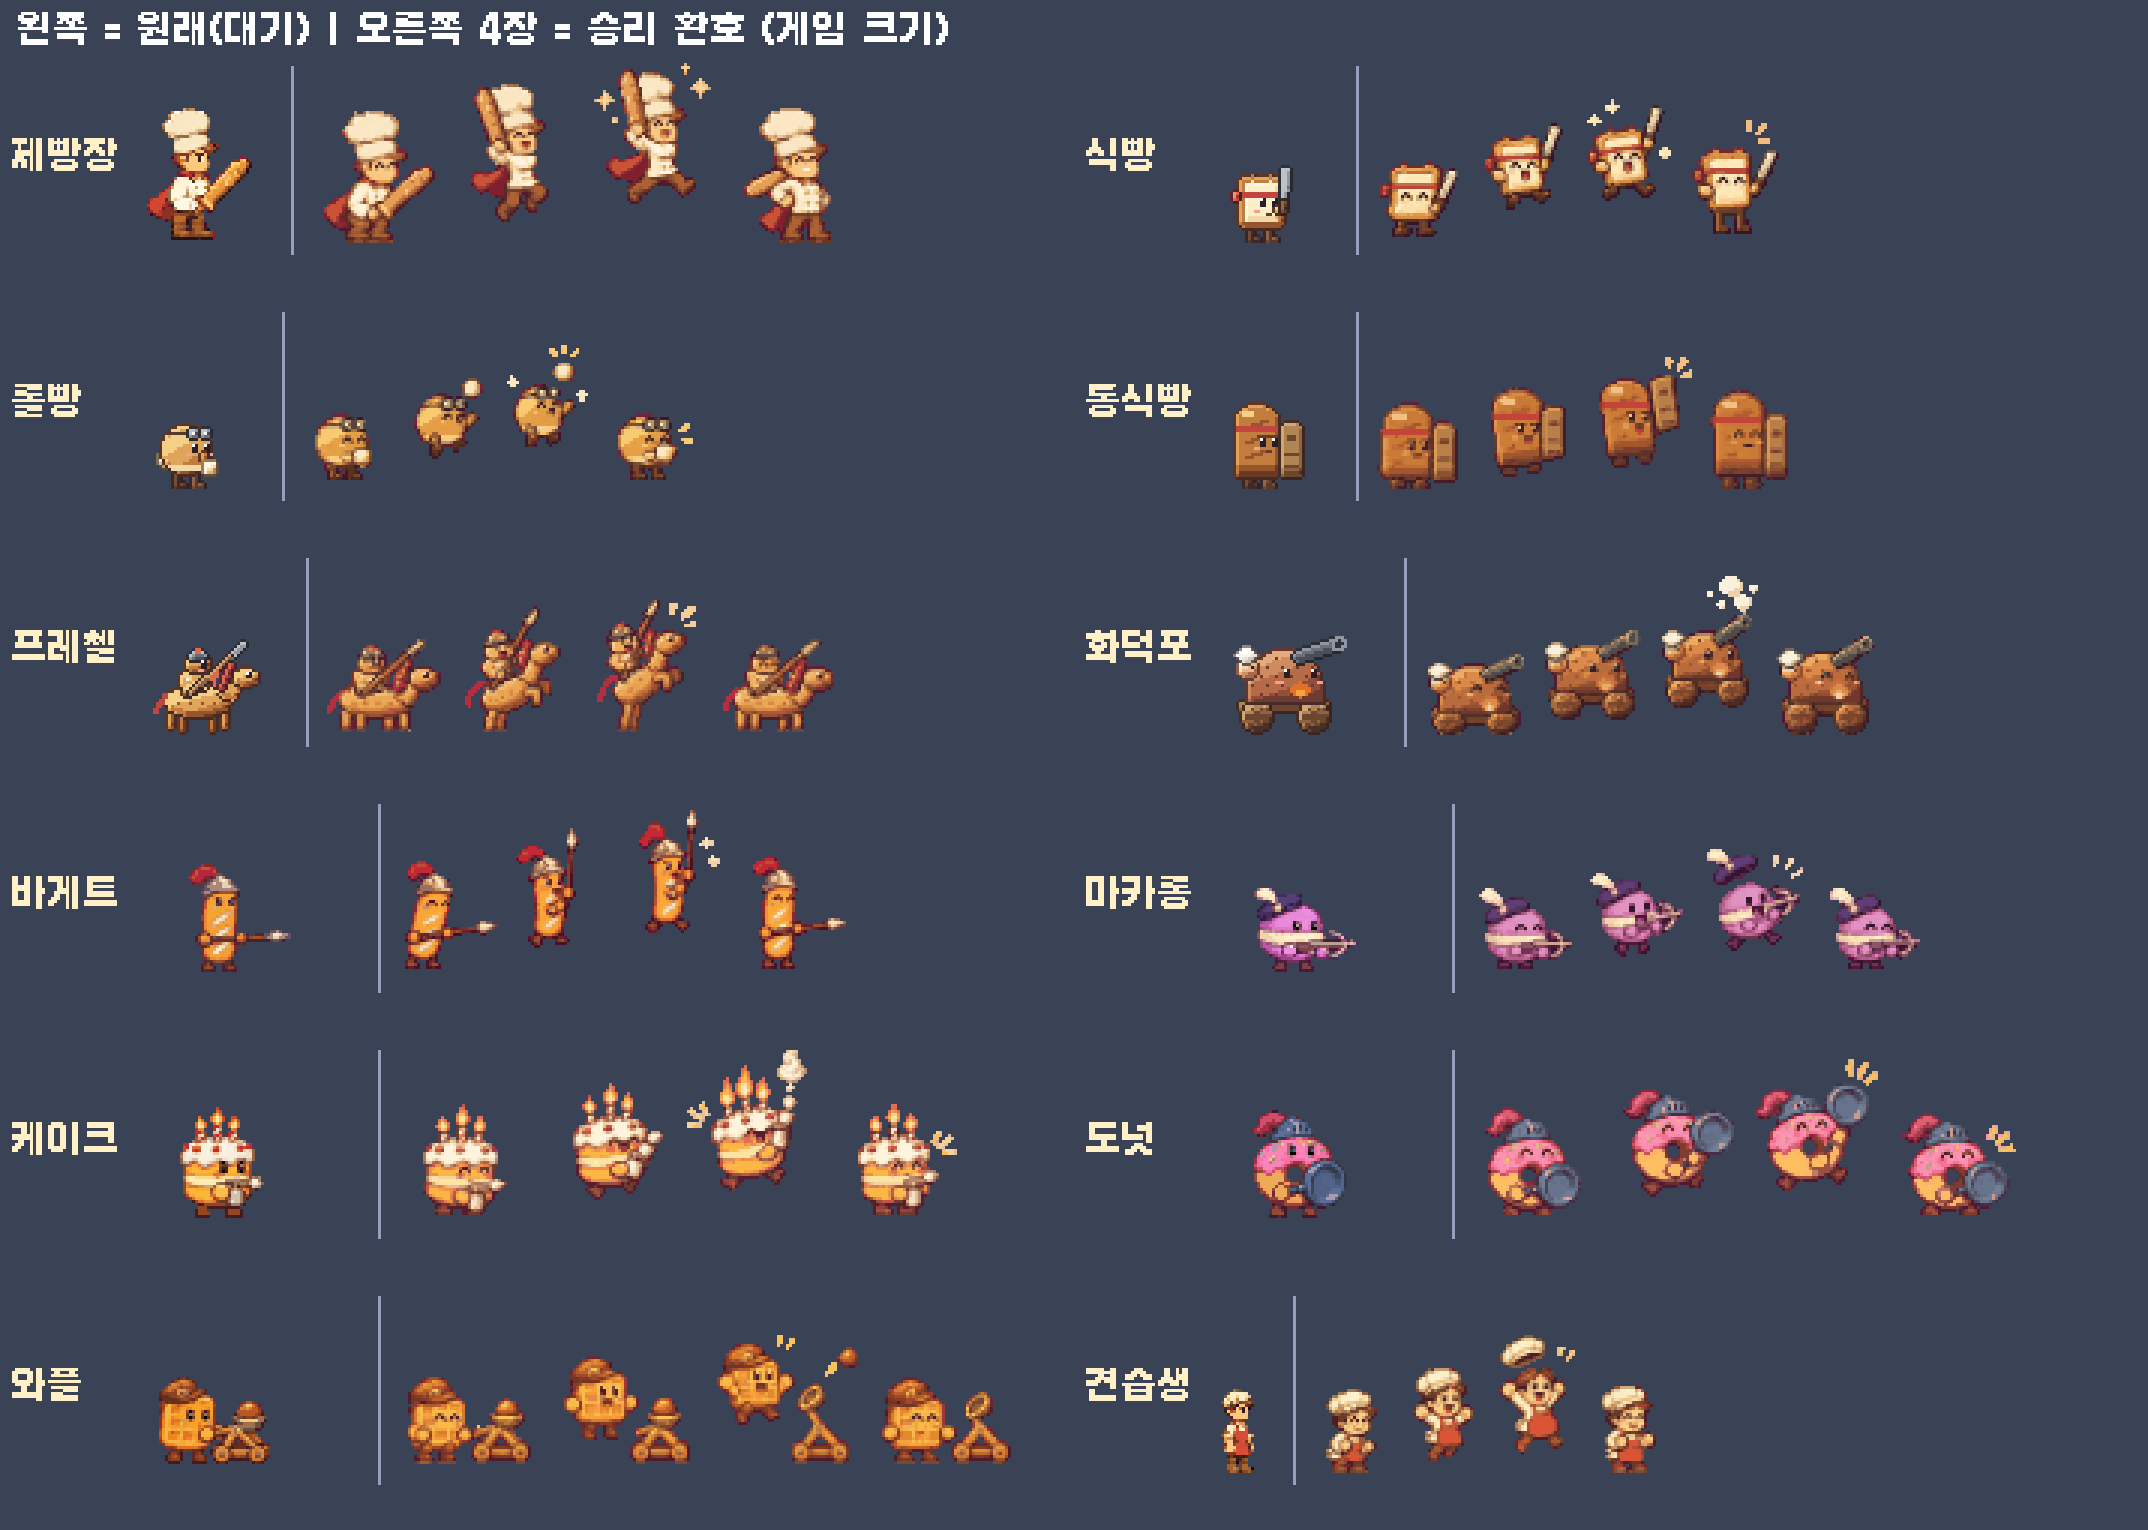
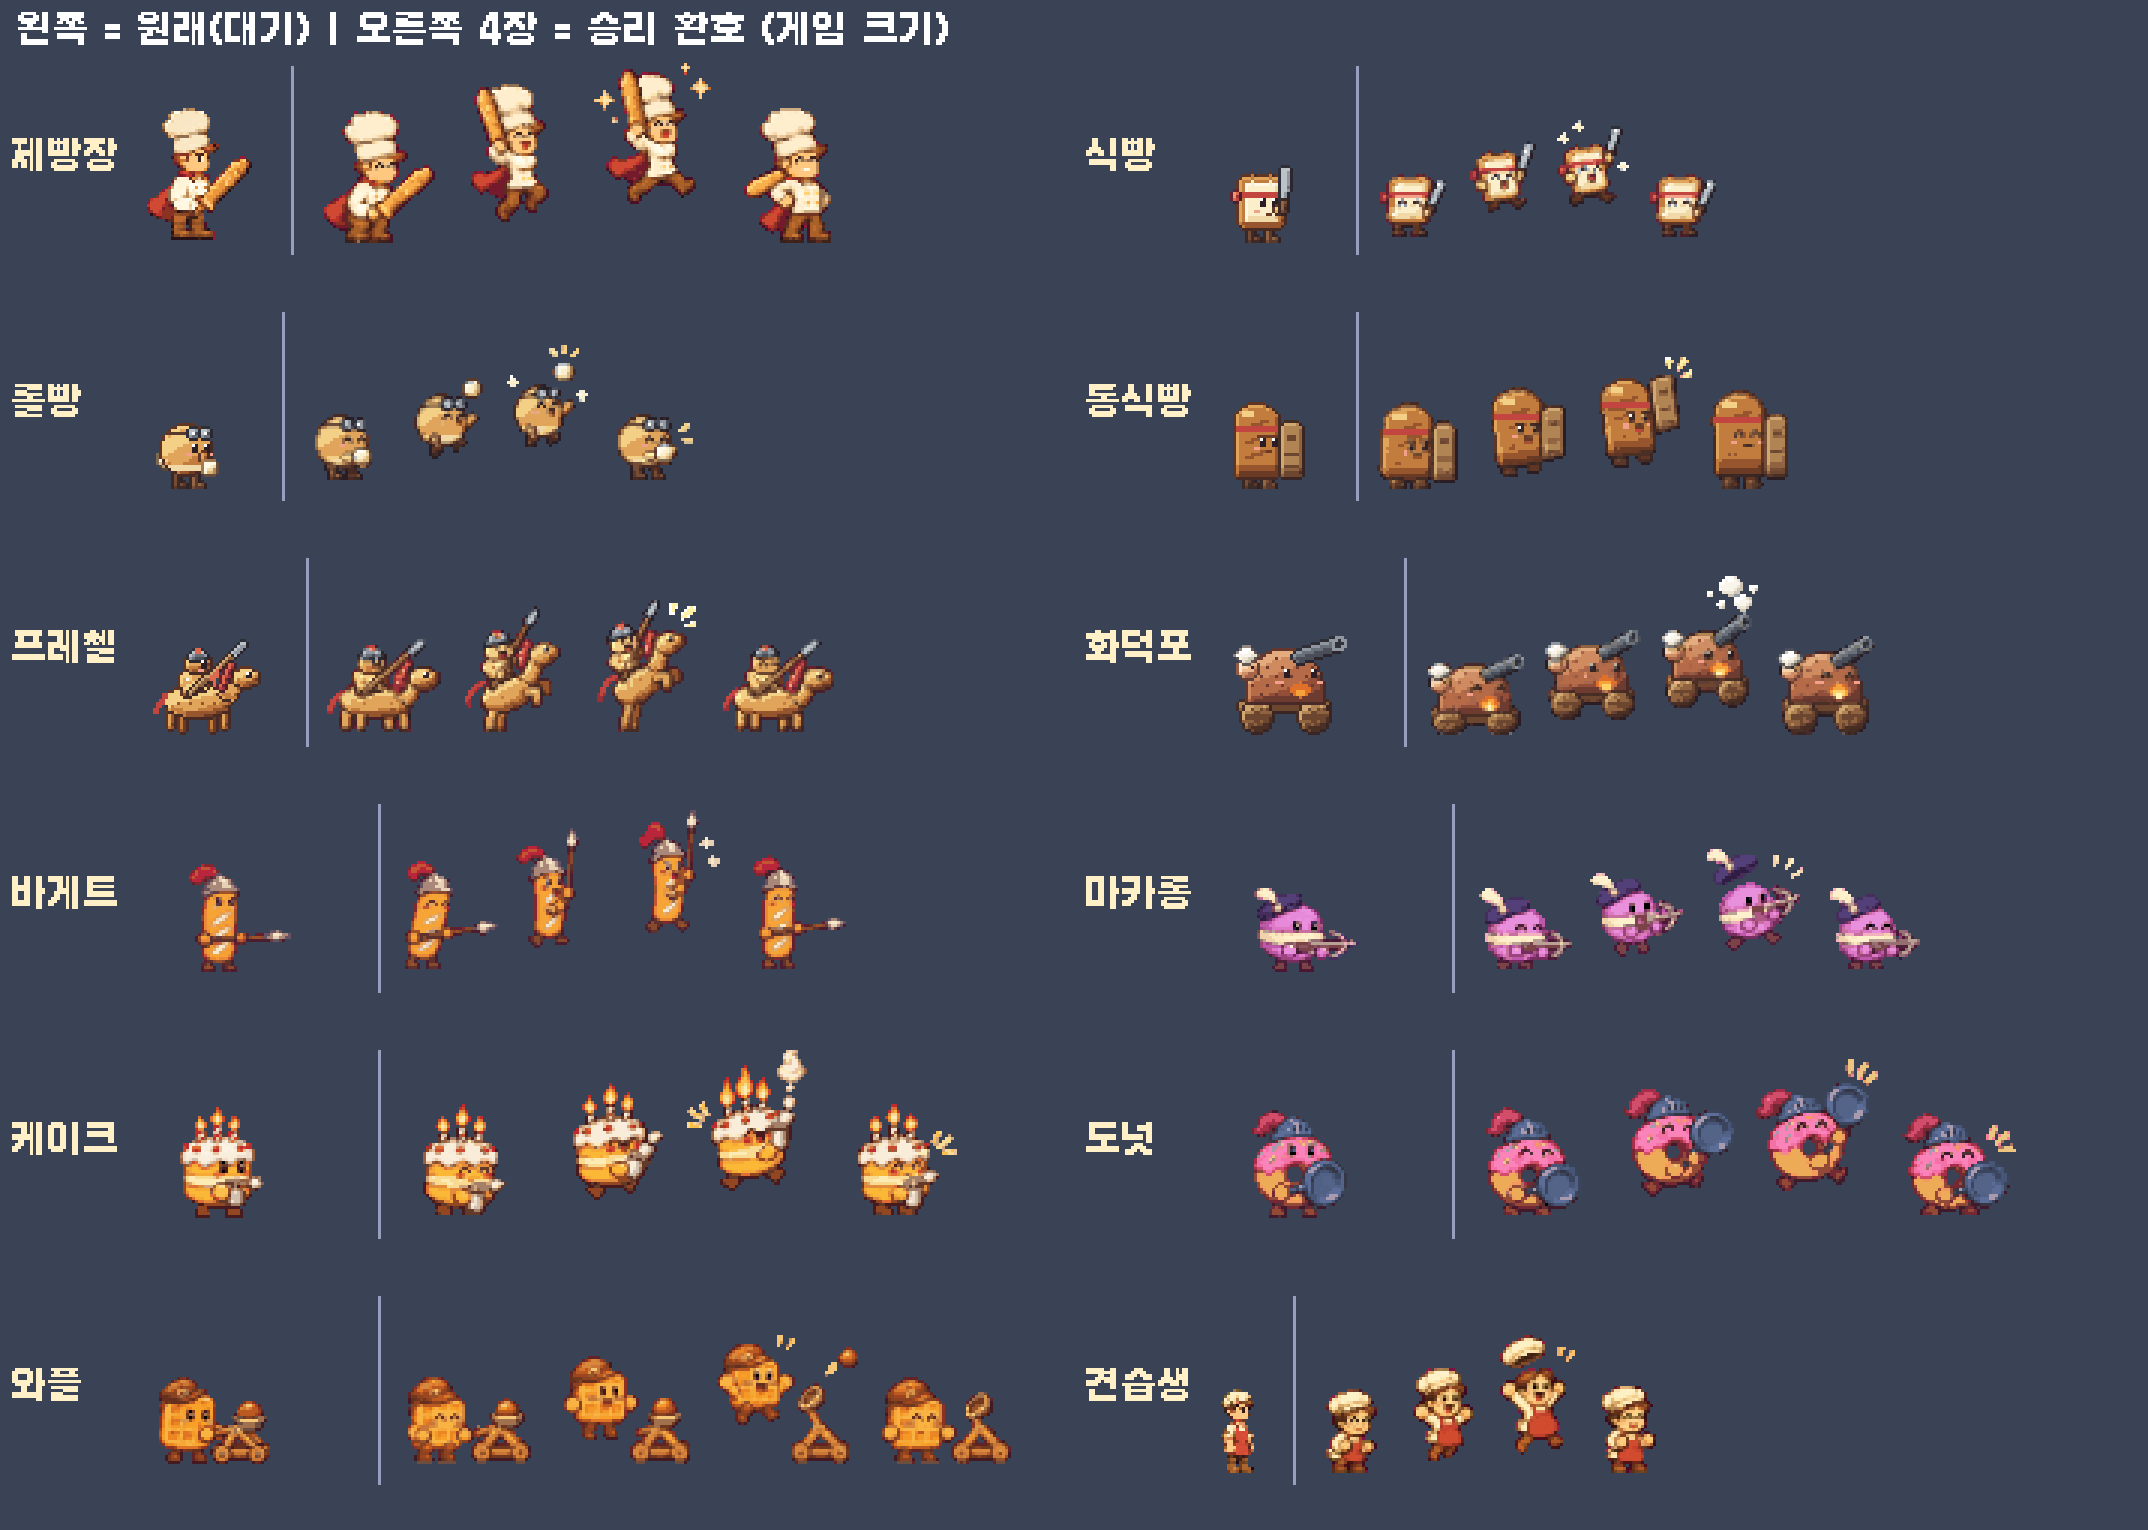
[Fix] 환호 그림 색감을 원래 유닛 색으로 보정하고 식빵 크기·착지 프레임 조정

diff --git a/tools/art/import_cheer.py b/tools/art/import_cheer.py
@@ -5,7 +5,7 @@ ground line in each cell (docs/art/release_slice/cheer_regen/PROMPTS.md). Some s
 so a margin inside every cell is ignored.
 Only units whose sheet matches the in-game sprite are imported (USE below); the others wait for a redraw.
 Each cell is keyed, scaled so the first (crouch) pose is as tall as the unit's in-game idle frame (SCALE_FIX trims a few), reduced with a
-premultiplied box filter, cut to hard alpha and reduced to one palette per unit. The pivot is the feet on the
+premultiplied box filter, cut to hard alpha and colour-matched to the unit's in-game sprite (same mean/spread, then only in-game colours). The pivot is the feet on the
 ground line, at the in-game sprite's pivot x (as a share of the crouch pose), the same in all four frames, so jumps keep their height and nothing jitters sideways.
 Output: assets/art/cheer/cheer.png + cheer.json {anim_set: {"frames": [[x, y, w, h], ...], "pivot": [px, py]}}
   python tools/art/import_cheer.py
@@ -20,9 +20,10 @@ ROOT = Path(__file__).resolve().parents[2]
 SRC = ROOT / "docs/art/gpt_sources/cheer"
 OUT = ROOT / "assets/art/cheer"
 CELL_W, CELL_H, MARGIN = 384, 512, 10
-COLOURS = 24
 # per-unit size trim after the height match: the oven sheet is drawn wider than the game's oven
-SCALE_FIX = {"siege": 0.8}
+SCALE_FIX = {"siege": 0.8, "melee_basic": 0.85}
+# per-unit frame swaps: the toast's landing pose stretches its legs; it ends on its happy crouch instead
+FRAME_SUB = {"melee_basic": {3: 0}}
 # anim_set: (sheet, row) — only sheets drawn from the sprites the game really uses
 USE = {
     "hero_captain": (1, 0),
@@ -62,6 +63,50 @@ def game_idle(aset: str):
     return bb[3] - bb[1], bb[2] - bb[0], (float(v["pivot"][0]) - bb[0]) / float(bb[2] - bb[0])
 
 
+def game_pixels(aset: str) -> np.ndarray:
+    """Every opaque pixel of the unit's in-game idle / walk / attack frames (N x 3, 0..255)."""
+    js, png = GAME[aset]
+    a = json.loads((ROOT / js).read_text(encoding="utf-8"))
+    img = np.asarray(Image.open(ROOT / png).convert("RGBA"))
+    px = []
+    for anim in ("idle", "walk", "attack"):
+        for fn in a["anims"][aset].get(anim, {}).get("frames", []):
+            v = a["frames"][fn]
+            f = img[v["y"]:v["y"] + v["h"], v["x"]:v["x"] + v["w"]].reshape(-1, 4)
+            px.append(f[f[:, 3] > 127][:, :3])
+    return np.concatenate(px).astype(np.float64)
+
+
+def to_lab(rgb: np.ndarray) -> np.ndarray:
+    c = rgb / 255.0
+    c = np.where(c > 0.04045, ((c + 0.055) / 1.055) ** 2.4, c / 12.92)
+    xyz = c @ np.array([[0.4124, 0.2126, 0.0193], [0.3576, 0.7152, 0.1192], [0.1805, 0.0722, 0.9505]])
+    xyz = xyz / np.array([0.95047, 1.0, 1.08883])
+    f = np.where(xyz > 0.008856, np.cbrt(xyz), 7.787 * xyz + 16.0 / 116.0)
+    return np.stack([116.0 * f[:, 1] - 16.0, 500.0 * (f[:, 0] - f[:, 1]), 200.0 * (f[:, 1] - f[:, 2])], axis=1)
+
+
+def match_colours(frames, aset: str):
+    """Colour-correct the cheer to the in-game sprite (2026-11-15 user: e.g. the roll came out darker): move the
+    cheer's Lab mean / spread onto the game sprite's, then paint every pixel with its nearest in-game colour."""
+    game = game_pixels(aset)
+    pal = np.unique(game.astype(np.uint8), axis=0).astype(np.float64)
+    pal_lab = to_lab(pal)
+    g_lab = to_lab(game)
+    c_lab = to_lab(np.concatenate([f[0][f[1]] for f in frames]).astype(np.float64))
+    mu_g, sd_g = g_lab.mean(0), g_lab.std(0) + 1e-6
+    mu_c, sd_c = c_lab.mean(0), c_lab.std(0) + 1e-6
+    gain = np.clip(sd_g / sd_c, 0.7, 1.4)
+    out = []
+    for rgb, on in frames:
+        flat = rgb.reshape(-1, 3).astype(np.float64)
+        lab = (to_lab(flat) - mu_c) * gain + mu_g
+        d = ((lab[:, None, :] - pal_lab[None, :, :]) ** 2).sum(-1)
+        q = pal[d.argmin(1)].reshape(rgb.shape).astype(np.uint8)
+        out.append(Image.fromarray(np.dstack([q, np.where(on, 255, 0).astype(np.uint8)]), "RGBA"))
+    return out
+
+
 def cells(sheet: np.ndarray, row: int):
     out = []
     for c in range(4):
@@ -98,14 +143,9 @@ def unit(sheet: np.ndarray, row: int, aset: str):
         aa = np.asarray(al).astype(np.float64) / 255.0
         rgb = np.where(aa[..., None] > 0, rgb / np.maximum(aa[..., None], 1e-6), 0)
         frames.append((np.clip(rgb, 0, 255).astype(np.uint8), aa >= 0.5))
-    # one palette per unit
-    stack = np.concatenate([f[0][f[1]] for f in frames]).reshape(-1, 1, 3)
-    pal = Image.fromarray(stack, "RGB").quantize(colors=COLOURS, method=Image.Quantize.MEDIANCUT)
-    out = []
-    for rgb, on in frames:
-        q = np.asarray(Image.fromarray(rgb, "RGB").quantize(palette=pal, dither=Image.Dither.NONE).convert("RGB"))
-        rgba = np.dstack([q, np.where(on, 255, 0).astype(np.uint8)])
-        out.append(Image.fromarray(rgba, "RGBA"))
+    out = match_colours(frames, aset)
+    for dst, src in FRAME_SUB.get(aset, {}).items():
+        out[dst] = out[src].copy()
     # trim all four frames to one shared box so the pivot stays put
     boxes = [im.getbbox() for im in out]
     l = min(b[0] for b in boxes); t = min(b[1] for b in boxes)
